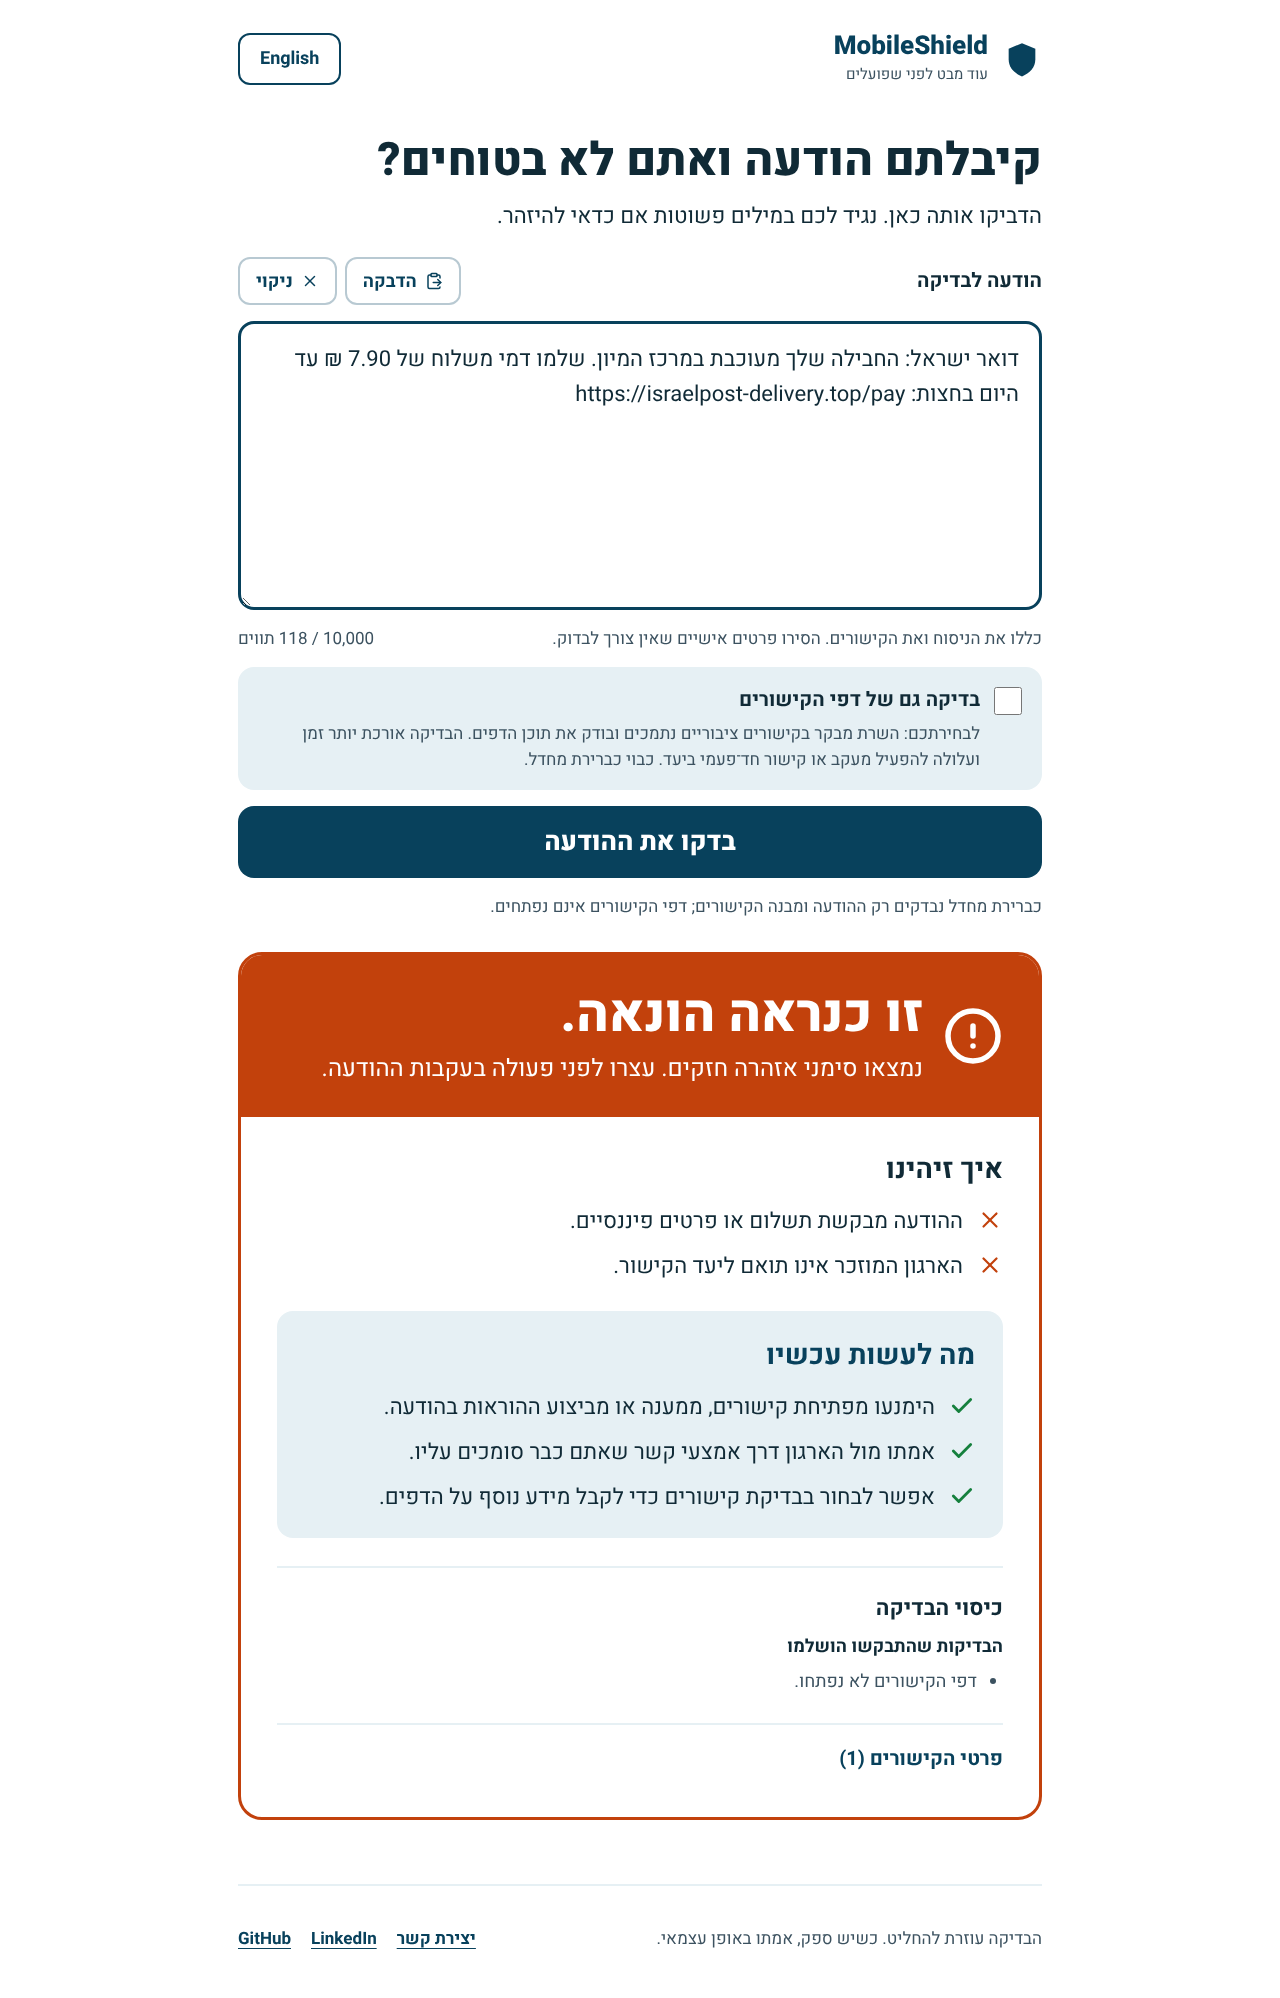
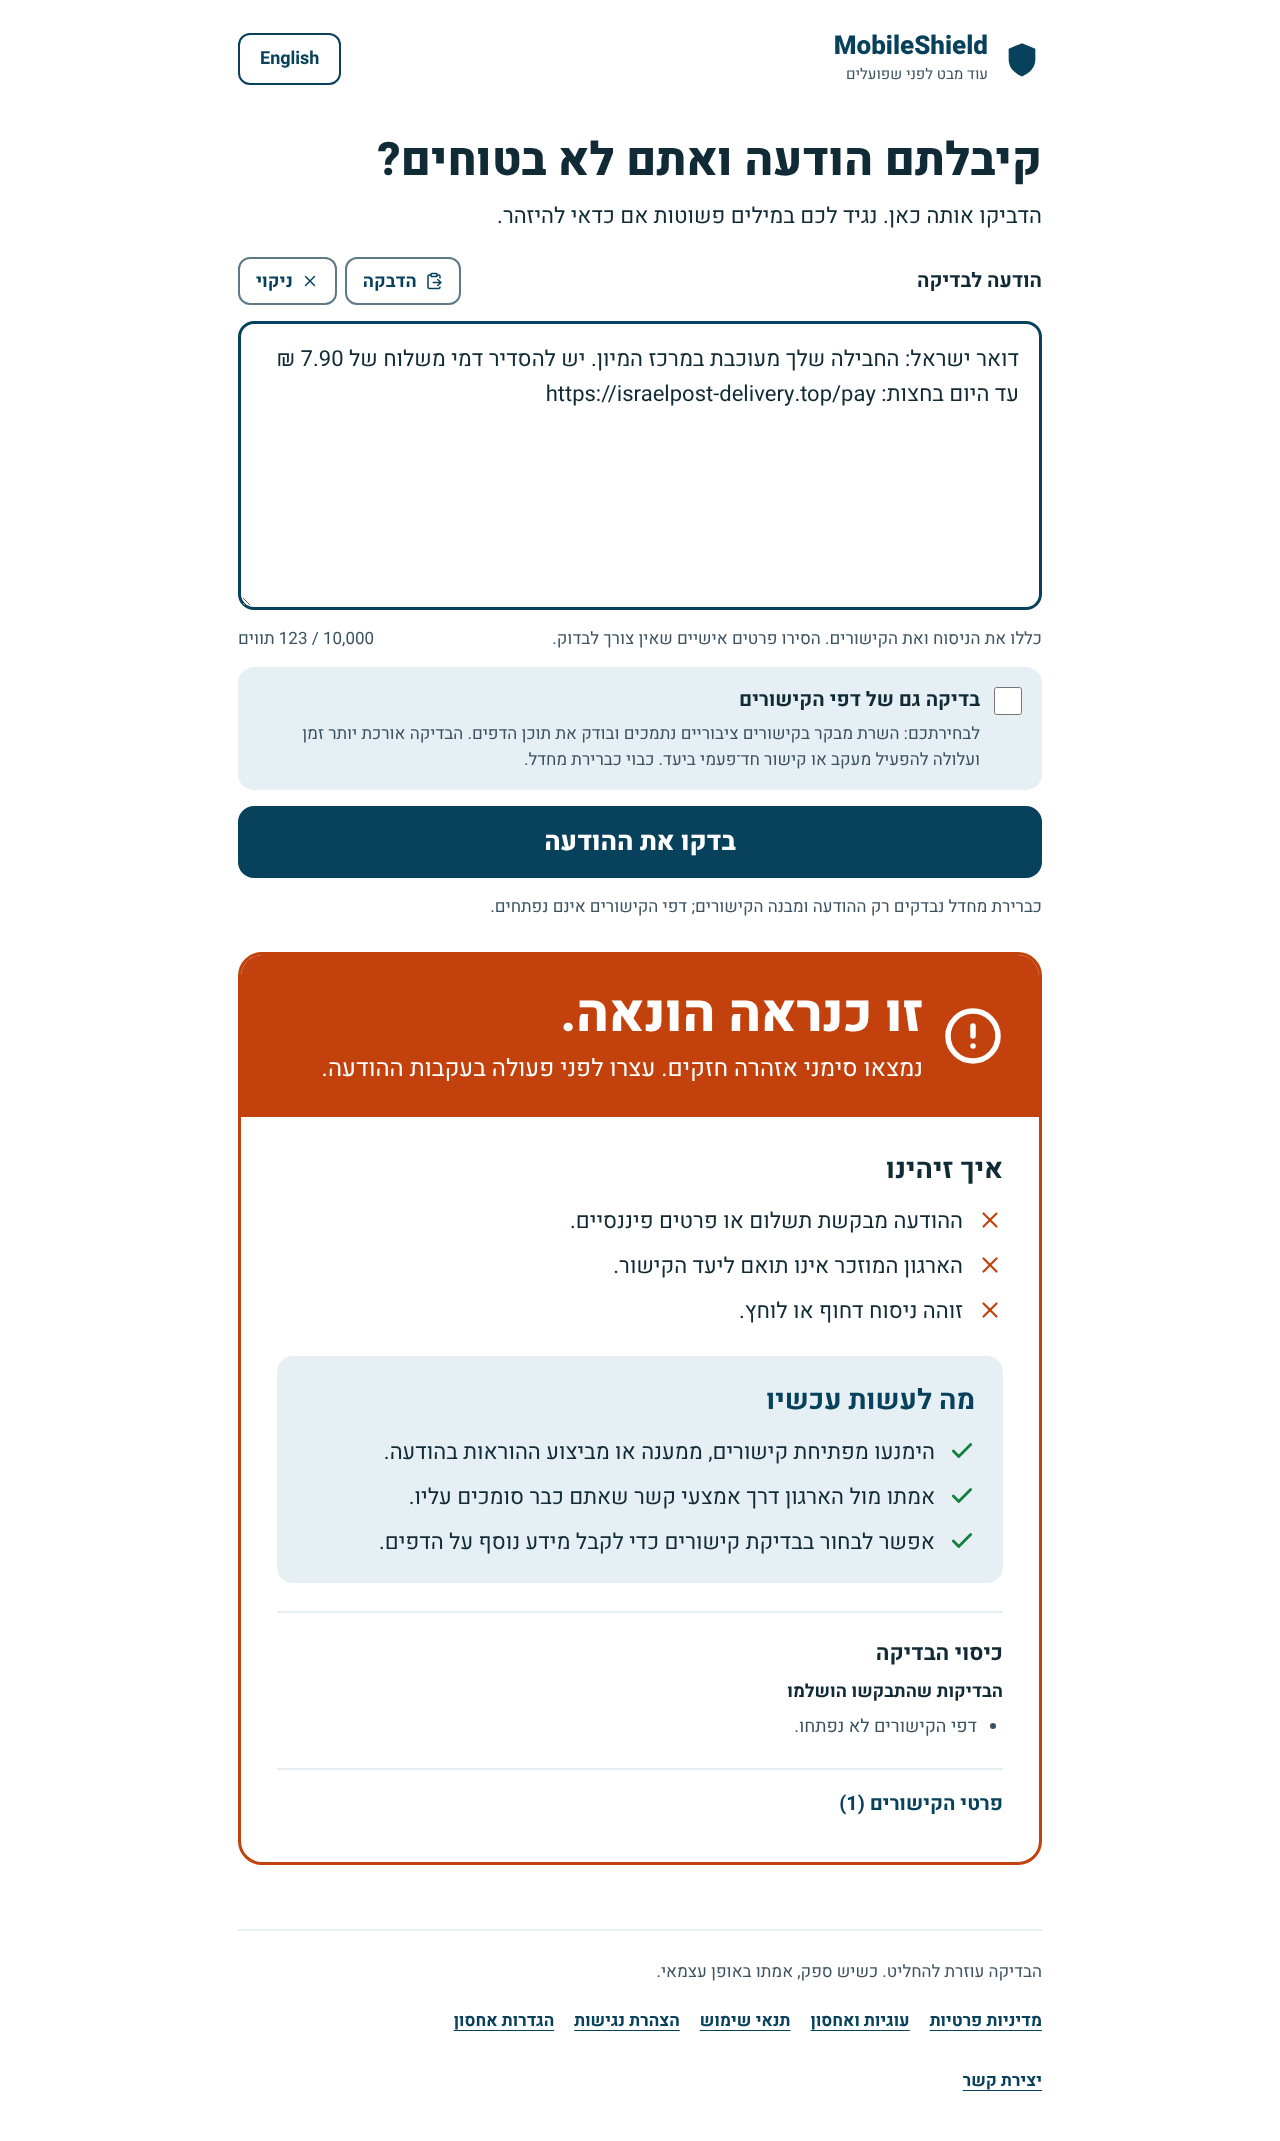
Remove GitHub and LinkedIn links from the site
The footer keeps the legal pages, storage settings and contact email.
The terms page now states the MIT license without linking to GitHub.
README screenshots retaken to match.

Claude-Session: https://claude.ai/code/session_013hSaubxCcA4SZETAWopHuX

diff --git a/mobileshield-web/app/legal/content.ts b/mobileshield-web/app/legal/content.ts
@@ -17,7 +17,6 @@ const EMAIL = 'MobileShield@gmail.com';
 const mail = { href: `mailto:${EMAIL}`, text: EMAIL };
 const PPA_HE = { href: 'https://www.gov.il/he/departments/the_privacy_protection_authority', text: 'הרשות להגנת הפרטיות' };
 const PPA_EN = { href: 'https://www.gov.il/en/departments/the_privacy_protection_authority', text: 'Privacy Protection Authority' };
-const GITHUB = { href: 'https://github.com/ophbra22/mobileshield', text: 'GitHub' };
 
 export const LEGAL: Record<LegalPageId, { he: LegalDoc; en: LegalDoc }> = {
   privacy: {
@@ -164,7 +163,7 @@ export const LEGAL: Record<LegalPageId, { he: LegalDoc; en: LegalDoc }> = {
           { p: ['אנחנו רשאים לשנות, להשהות או להפסיק את השירות או חלקים ממנו, ולעדכן את התנאים. התאריך בראש העמוד מציין את העדכון האחרון.'] },
         ] },
         { heading: 'קוד פתוח', blocks: [
-          { p: ['קוד המקור של האתר זמין ב־', GITHUB, ' ברישיון MIT.'] },
+          { p: ['קוד המקור של האתר מופץ ברישיון MIT.'] },
         ] },
         { heading: 'פרטיות', blocks: [
           { p: ['השימוש במידע מתואר במדיניות הפרטיות ובמדיניות העוגיות והאחסון.'] },
@@ -200,7 +199,7 @@ export const LEGAL: Record<LegalPageId, { he: LegalDoc; en: LegalDoc }> = {
           { p: ['We may change, suspend or end the service or parts of it, and update these terms. The date at the top of this page shows the latest update.'] },
         ] },
         { heading: 'Open source', blocks: [
-          { p: ['The site\'s source code is available on ', GITHUB, ' under the MIT license.'] },
+          { p: ['The site\'s source code is released under the MIT license.'] },
         ] },
         { heading: 'Privacy', blocks: [
           { p: ['How data is used is described in the privacy policy and the cookie and storage policy.'] },

diff --git a/mobileshield-web/app/components/ScanForm.test.tsx b/mobileshield-web/app/components/ScanForm.test.tsx
@@ -158,7 +158,7 @@ describe('message form with the real request lifecycle', () => {
     await act(async()=>resolve('stale clipboard'));
     expect(screen.getByRole('textbox')).toHaveValue(change==='edit'?'manual':'');
   });
-  it('offers keyboard accessible language and contact/social footer affordances',async()=>{
+  it('offers keyboard accessible language, contact and site-information footer links',async()=>{
     const user=userEvent.setup(); show(); await user.tab();
     expect(screen.getByRole('link',{name:'Skip to content'})).toHaveFocus();
     expect(screen.getByRole('link',{name:'Skip to content'})).toHaveAttribute('href','#main-content');
@@ -167,8 +167,8 @@ describe('message form with the real request lifecycle', () => {
     await user.tab();
     expect(screen.getByRole('button',{name:/Switch to Hebrew/})).toHaveFocus();
     expect(screen.getByRole('link',{name:'Contact us'})).toHaveAttribute('href','mailto:MobileShield@gmail.com');
-    expect(screen.getByRole('link',{name:'LinkedIn'})).toHaveAttribute('rel','noopener noreferrer');
-    expect(screen.getByRole('link',{name:'GitHub'})).toHaveAttribute('href','https://github.com/ophbra22/mobileshield');
+    expect(screen.queryByRole('link',{name:'LinkedIn'})).not.toBeInTheDocument();
+    expect(screen.queryByRole('link',{name:'GitHub'})).not.toBeInTheDocument();
     for (const [name, href] of [['Privacy policy','/privacy'],['Cookies and storage','/cookies'],['Terms of use','/terms'],['Accessibility statement','/accessibility']]) {
       expect(screen.getByRole('link',{name})).toHaveAttribute('href',href);
     }

diff --git a/mobileshield-web/app/components/SiteFooter.tsx b/mobileshield-web/app/components/SiteFooter.tsx
@@ -18,8 +18,6 @@ export function SiteFooter() {
       </nav>
       <nav aria-label={t.contact} className="footer-contact">
         <a href="mailto:MobileShield@gmail.com">{t.contact}</a>
-        <a href="https://www.linkedin.com/in/ophir-braude-188252378/" target="_blank" rel="noopener noreferrer">LinkedIn</a>
-        <a href="https://github.com/ophbra22/mobileshield" target="_blank" rel="noopener noreferrer">GitHub</a>
       </nav>
     </footer>
   );
